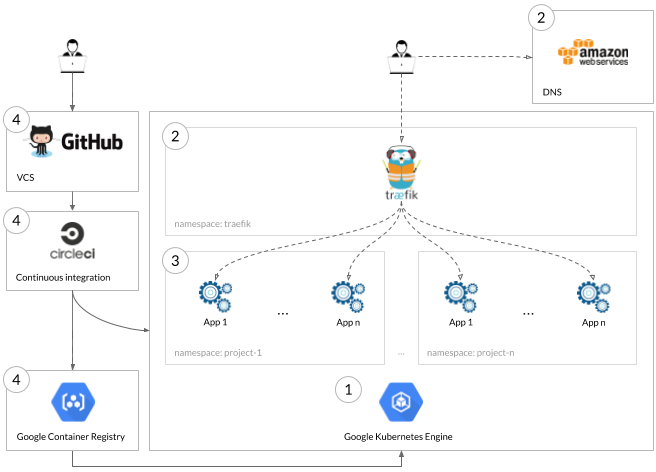
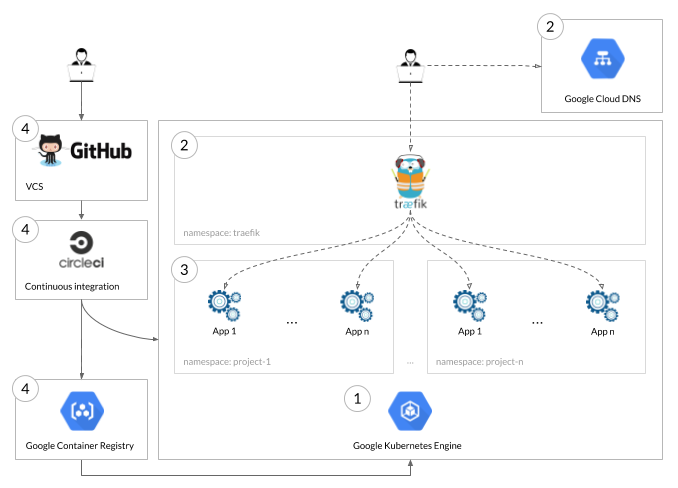
Migration to Google Cloud DNS (#15)

diff --git a/ci-cd-platform-deployment/kubernetes-gke/README.md b/ci-cd-platform-deployment/kubernetes-gke/README.md
@@ -100,17 +100,24 @@ kubectl create secret generic traefik-auth --from-file [FILENAME] --namespace=tr
 ```
 
 In order for Traefik to generate wildcard TLS certificates using Let's Encrypt, it must fulfill a DNS challenge. Since 
-our domain is registered with AWS, we use Traefik's Route53 provider to do so (other providers are listed 
-[here](https://docs.traefik.io/https/acme/#dnschallenge)). This provider requires the Access Key ID and the Secret 
-Access Key of an AWS IAM user with sufficient permissions to edit DNS records.
+our domain is registered with Google Domains and our DNS is handled by Google Cloud DNS, we use Traefik's Google Cloud
+provider to do so (other providers are listed [here](https://docs.traefik.io/https/acme/#dnschallenge)). This provider
+requires the key of a GCP Service Account with DNS write access to edit DNS records. This service account and its key
+can be generated through the [Cloud Console](https://console.cloud.google.com/iam-admin/serviceaccounts). 
+
+Note that if you opt for another provider, you will probably need to adapt or remove the `volume`, `volumeMount` and 
+environment variables parts of the [traefik descriptor](traefik.yaml) in order to pass the correct configuration to 
+Traefik.
+
+Import the key file into your cluster's traefik namespace as a secret with key `traefik-service-account`:
+```shell script
+kubectl create secret generic traefik-service-account --from-file=traefik-service-account.json=[FILENAME] --namespace=traefik
+```
 
 Fill the following placeholders in the [traefik descriptor](traefik.yaml): 
 - `DOMAIN`: the domain you own (e.g., `mywebsite.com`)
 - `ACME_EMAIL_ADDRESS`: the contact email address to use to generate the TLS certificates
-- `AWS_ACCESS_KEY_ID`: the Access Key ID of the AWS IAM user
-- `AWS_SECRET_ACCESS_KEY`: the Secret Access Key of the AWS IAM user
-- `AWS_REGION`: the code of your AWS region (can be found in the url when editing your DNS configuration).
-- `AWS_HOSTED_ZONE_ID`: the ID of the Hosted Zone in Route53 (can be found in the url when editing your DNS configuration)
+- `GCE_PROJECT`: the name of the Google Cloud project
 
 Then apply it:
 ```shell script
